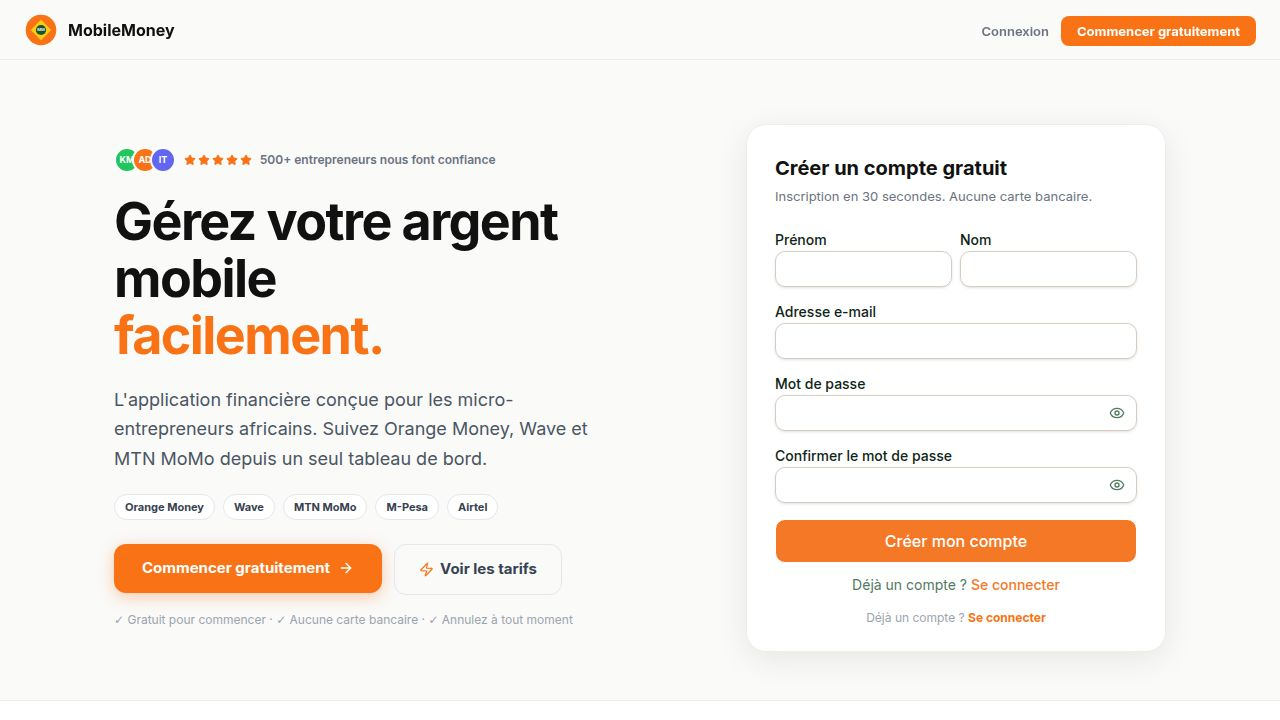
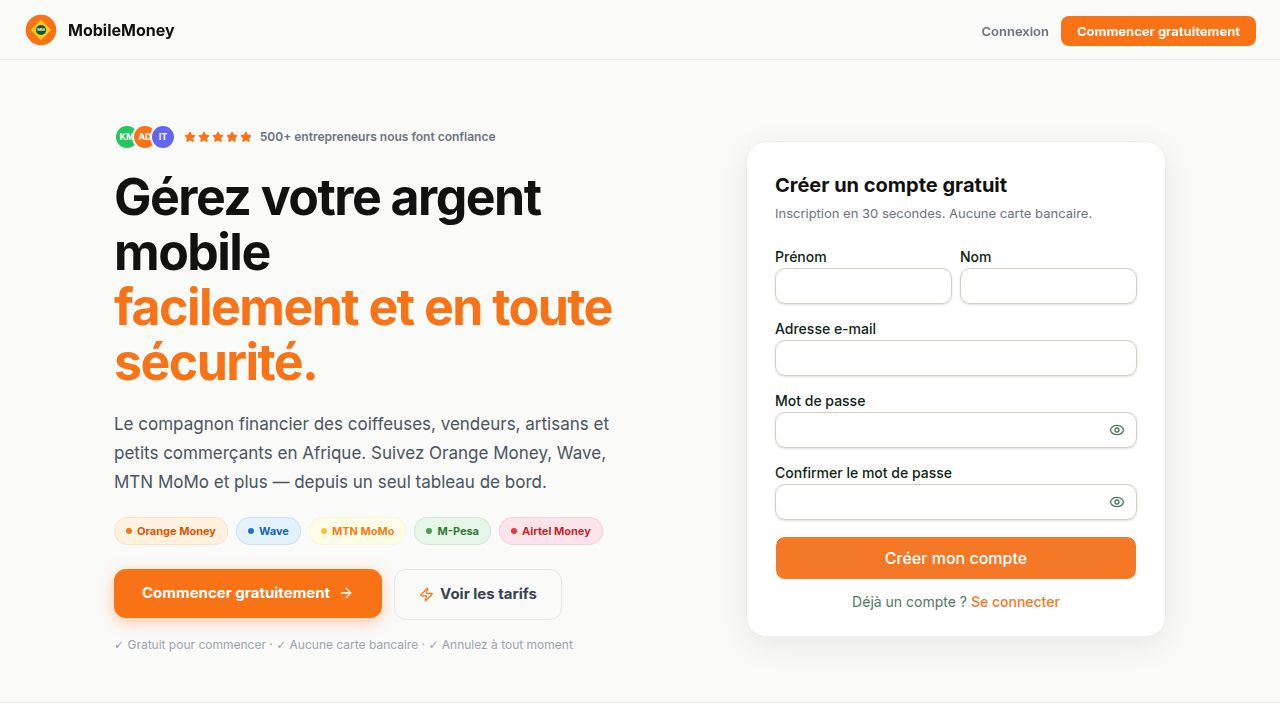
Improve feature cards and testimonials with new details
Update feature cards with benefit-focused titles and badges. Enhance testimonials with verified badges, cities, and emoji avatars.

Replit-Commit-Author: Agent
Replit-Commit-Session-Id: 96ac455e-ac4c-40b2-8513-c5170ef80bc2
Replit-Commit-Checkpoint-Type: full_checkpoint
Replit-Commit-Event-Id: 6f64c723-0567-4fef-acf0-5516a708f06d
Replit-Commit-Screenshot-Url: https://storage.googleapis.com/screenshot-production-us-central1/f86f2551-f080-4121-be3b-28f8cac57e85/96ac455e-ac4c-40b2-8513-c5170ef80bc2/KLUyV8z
Replit-Helium-Checkpoint-Created: true

diff --git a/artifacts/money-manager/src/pages/home.tsx b/artifacts/money-manager/src/pages/home.tsx
@@ -35,24 +35,27 @@ export default function Home() {
   const features = [
     {
       icon: Wallet,
-      title: fr ? "Tous vos wallets réunis" : "All wallets in one place",
+      title: fr ? "Tous vos wallets en un seul endroit" : "All your wallets in one place",
       description: fr
-        ? "Orange Money, Wave, MTN MoMo, Airtel, M-Pesa, espèces — gérez tout depuis un seul tableau de bord."
-        : "Orange Money, Wave, MTN MoMo, Airtel, M-Pesa, cash — manage all from one dashboard.",
+        ? "Orange Money, Wave, MTN MoMo, M-Pesa, Airtel, espèces — fini les cahiers et les calculs. Tout est centralisé, clair et à jour."
+        : "Orange Money, Wave, MTN MoMo, M-Pesa, Airtel, cash — no more notebooks. Everything centralized, clear and up to date.",
+      badge: fr ? "5 wallets supportés" : "5 wallets supported",
     },
     {
       icon: TrendingUp,
-      title: fr ? "Rapports clairs et exportables" : "Clear, exportable reports",
+      title: fr ? "Sachez exactement combien vous gagnez" : "Know exactly how much you earn",
       description: fr
-        ? "Visualisez vos revenus, dépenses et bénéfices mois par mois. Exportez en PDF pour votre comptable."
-        : "Visualize your income, expenses and profit month by month. Export PDF for your accountant.",
+        ? "Tableaux de bord clairs, rapports mensuels et exports PDF. Montrez vos chiffres à votre comptable en un clic."
+        : "Clear dashboards, monthly reports and PDF exports. Show your numbers to your accountant in one click.",
+      badge: fr ? "Export PDF inclus" : "PDF export included",
     },
     {
       icon: ShieldCheck,
-      title: fr ? "Données sécurisées & privées" : "Secure & private data",
+      title: fr ? "Vos finances protégées et privées" : "Your finances protected and private",
       description: fr
-        ? "Chiffrement de bout en bout. Vos données financières ne sont jamais partagées ou vendues."
-        : "End-to-end encryption. Your financial data is never shared or sold.",
+        ? "Chiffrement de bout en bout. Vos données financières ne sont jamais partagées, jamais vendues. Vous restez maître de vos données."
+        : "End-to-end encryption. Your financial data is never shared or sold. You stay in control of your data.",
+      badge: fr ? "Données chiffrées" : "Encrypted data",
     },
   ];
 
@@ -83,32 +86,38 @@ export default function Home() {
   const testimonials = [
     {
       name: "Kofi Mensah",
-      role: fr ? "Vendeur de téléphones, Abidjan" : "Phone vendor, Abidjan",
+      role: fr ? "Vendeur de téléphones" : "Phone vendor",
+      city: "Abidjan, Côte d'Ivoire",
       avatar: "KM",
       color: "#22c55e",
+      emoji: "📱",
       quote: fr
-        ? "Je suivais mes finances dans un carnet. Avec MobileMoney Manager, je vois tout en un coup d'œil. Mes revenus Wave et Orange Money sont enfin organisés."
-        : "I tracked finances in a notebook. With MobileMoney Manager, I see everything at a glance. My Wave and Orange Money income is finally organized.",
+        ? "Je suivais mes finances dans un carnet. Maintenant je vois mes revenus Wave et Orange Money en temps réel. Mes bénéfices ont augmenté de 20 % en 3 mois."
+        : "I tracked finances in a notebook. Now I see my Wave and Orange Money income in real time. My profit grew 20% in 3 months.",
       stars: 5,
     },
     {
       name: "Aminata Diallo",
-      role: fr ? "Commerçante textile, Dakar" : "Textile merchant, Dakar",
+      role: fr ? "Commerçante textile" : "Textile merchant",
+      city: "Dakar, Sénégal",
       avatar: "AD",
       color: "#f97316",
+      emoji: "👗",
       quote: fr
-        ? "J'ai découvert que je dépensais 30 % de plus que je ne pensais. L'appli m'a aidée à réduire mes coûts et augmenter mes bénéfices en deux mois."
-        : "I discovered I was spending 30% more than I thought. The app helped me cut costs and increase profit in two months.",
+        ? "J'ai découvert que je dépensais 30 % de plus que je ne pensais. En deux mois, j'ai réduit mes coûts et augmenté mes bénéfices. Cette appli m'a changé la vie."
+        : "I discovered I was spending 30% more than I thought. In two months I cut costs and grew profit. This app changed my life.",
       stars: 5,
     },
     {
       name: "Ibrahim Touré",
-      role: fr ? "Entrepreneur, Douala" : "Entrepreneur, Douala",
+      role: fr ? "Artisan électricien" : "Electrician",
+      city: "Yaoundé, Cameroun",
       avatar: "IT",
       color: "#6366f1",
+      emoji: "⚡",
       quote: fr
-        ? "Les rapports PDF sont parfaits pour ma comptabilité. Mon comptable adore recevoir les exports bien organisés chaque mois."
-        : "The PDF reports are perfect for my accounting. My accountant loves receiving the well-organized exports every month.",
+        ? "Les rapports PDF sont parfaits pour mes clients et mon comptable. Tout est organisé, professionnel. Je recommande à tous les artisans."
+        : "The PDF reports are perfect for my clients and accountant. Everything organized and professional. I recommend it to all artisans.",
       stars: 5,
     },
   ];
@@ -178,29 +187,39 @@ export default function Home() {
             </div>
 
             <h1 style={{
-              fontSize: "clamp(32px, 5vw, 52px)", fontWeight: 900,
+              fontSize: "clamp(30px, 5vw, 50px)", fontWeight: 900,
               color: "#111", lineHeight: 1.1, letterSpacing: "-0.03em", margin: 0,
             }}>
               {fr
-                ? <>Gérez votre argent mobile<br /><span style={{ color: ORANGE }}>facilement.</span></>
-                : <>Manage your mobile money<br /><span style={{ color: ORANGE }}>effortlessly.</span></>
+                ? <>Gérez votre argent mobile<br /><span style={{ color: ORANGE }}>facilement et en toute sécurité.</span></>
+                : <>Manage your mobile money<br /><span style={{ color: ORANGE }}>easily and securely.</span></>
               }
             </h1>
 
-            <p style={{ fontSize: 18, color: "#4b5563", lineHeight: 1.65, margin: 0, maxWidth: 480 }}>
+            <p style={{ fontSize: 17, color: "#4b5563", lineHeight: 1.7, margin: 0, maxWidth: 500 }}>
               {fr
-                ? "L'application financière conçue pour les micro-entrepreneurs africains. Suivez Orange Money, Wave et MTN MoMo depuis un seul tableau de bord."
-                : "The financial app built for African micro-entrepreneurs. Track Orange Money, Wave and MTN MoMo from a single dashboard."
+                ? "Le compagnon financier des coiffeuses, vendeurs, artisans et petits commerçants en Afrique. Suivez Orange Money, Wave, MTN MoMo et plus — depuis un seul tableau de bord."
+                : "The financial companion for hairdressers, vendors, artisans and small traders in Africa. Track Orange Money, Wave, MTN MoMo and more — from one dashboard."
               }
             </p>
 
             {/* Mobile-money logos / payment badges */}
             <div style={{ display: "flex", flexWrap: "wrap", gap: 8 }}>
-              {["Orange Money", "Wave", "MTN MoMo", "M-Pesa", "Airtel"].map(p => (
-                <span key={p} style={{
-                  fontSize: 11, fontWeight: 700, padding: "4px 10px", borderRadius: 999,
-                  background: "#fff", border: "1.5px solid #e5e7eb", color: "#374151",
-                }}>{p}</span>
+              {[
+                { label: "Orange Money", bg: "#fff3e0", color: "#e65100", dot: "#f97316" },
+                { label: "Wave",         bg: "#e3f2fd", color: "#1565c0", dot: "#1976d2" },
+                { label: "MTN MoMo",     bg: "#fffde7", color: "#f57f17", dot: "#fbc02d" },
+                { label: "M-Pesa",       bg: "#e8f5e9", color: "#2e7d32", dot: "#43a047" },
+                { label: "Airtel Money", bg: "#fce4ec", color: "#c62828", dot: "#e53935" },
+              ].map(({ label, bg, color, dot }) => (
+                <span key={label} style={{
+                  display: "inline-flex", alignItems: "center", gap: 5,
+                  fontSize: 11, fontWeight: 700, padding: "5px 11px", borderRadius: 999,
+                  background: bg, color, border: `1.5px solid ${dot}22`,
+                }}>
+                  <span style={{ width: 6, height: 6, borderRadius: "50%", background: dot, flexShrink: 0, display: "inline-block" }} />
+                  {label}
+                </span>
               ))}
             </div>
 
@@ -267,24 +286,59 @@ export default function Home() {
             </p>
           </div>
           <div style={{ display: "grid", gridTemplateColumns: "repeat(auto-fit, minmax(240px, 1fr))", gap: 20 }}>
-            {features.map(({ icon: Icon, title, description }) => (
+            {features.map(({ icon: Icon, title, description, badge }) => (
               <div key={title} style={{
-                background: "#fafaf9", border: "1px solid #f0ede9", borderRadius: 18,
+                background: "#fafaf9", border: "1.5px solid #f0ede9", borderRadius: 20,
                 padding: 24, display: "flex", flexDirection: "column", gap: 14,
+                boxShadow: "0 2px 8px rgba(0,0,0,0.04)",
               }}>
-                <div style={{
-                  width: 46, height: 46, borderRadius: 12,
-                  background: ORANGE + "18", display: "flex", alignItems: "center", justifyContent: "center",
-                }}>
-                  <Icon style={{ width: 22, height: 22, color: ORANGE }} />
+                <div style={{ display: "flex", alignItems: "flex-start", justifyContent: "space-between" }}>
+                  <div style={{
+                    width: 50, height: 50, borderRadius: 14,
+                    background: "linear-gradient(135deg," + ORANGE + "20," + ORANGE + "08)",
+                    border: "1.5px solid " + ORANGE + "25",
+                    display: "flex", alignItems: "center", justifyContent: "center",
+                  }}>
+                    <Icon style={{ width: 24, height: 24, color: ORANGE }} />
+                  </div>
+                  {badge && (
+                    <span style={{
+                      fontSize: 10, fontWeight: 700, padding: "3px 8px", borderRadius: 999,
+                      background: ORANGE + "14", color: ORANGE, border: "1px solid " + ORANGE + "30",
+                    }}>{badge}</span>
+                  )}
                 </div>
                 <div>
-                  <div style={{ fontWeight: 700, fontSize: 15, color: "#111", marginBottom: 6 }}>{title}</div>
-                  <p style={{ fontSize: 13, color: "#6b7280", lineHeight: 1.6, margin: 0 }}>{description}</p>
+                  <div style={{ fontWeight: 800, fontSize: 15, color: "#111", marginBottom: 8, lineHeight: 1.3 }}>{title}</div>
+                  <p style={{ fontSize: 13, color: "#6b7280", lineHeight: 1.65, margin: 0 }}>{description}</p>
                 </div>
               </div>
             ))}
           </div>
+        </div>
+      </section>
+
+      {/* ─── TRUST BAR ─── */}
+      <section style={{ background: "#111", padding: "20px 24px" }}>
+        <div style={{
+          maxWidth: 900, margin: "0 auto",
+          display: "flex", alignItems: "center", justifyContent: "center",
+          flexWrap: "wrap", gap: "12px 32px",
+        }}>
+          {[
+            { icon: "🔒", text: fr ? "Données chiffrées et sécurisées" : "Encrypted & secure data" },
+            { icon: "👥", text: fr ? "+500 entrepreneurs actifs" : "+500 active entrepreneurs" },
+            { icon: "💳", text: fr ? "Paiement protégé par Stripe" : "Payment secured by Stripe" },
+            { icon: "🌍", text: fr ? "Afrique de l'Ouest & Centrale" : "West & Central Africa" },
+          ].map(({ icon, text }) => (
+            <div key={text} style={{
+              display: "flex", alignItems: "center", gap: 7,
+              fontSize: 13, fontWeight: 600, color: "#d1d5db",
+            }}>
+              <span style={{ fontSize: 15 }}>{icon}</span>
+              {text}
+            </div>
+          ))}
         </div>
       </section>
 
@@ -301,25 +355,48 @@ export default function Home() {
         <div style={{ display: "grid", gridTemplateColumns: "repeat(auto-fit, minmax(260px, 1fr))", gap: 20 }}>
           {testimonials.map(t => (
             <div key={t.name} style={{
-              background: "#fff", border: "1px solid #f0ede9", borderRadius: 18,
+              background: "#fff", border: "1.5px solid #f0ede9", borderRadius: 20,
               padding: 24, display: "flex", flexDirection: "column", gap: 14,
-              boxShadow: "0 1px 4px rgba(0,0,0,0.05)",
+              boxShadow: "0 2px 12px rgba(0,0,0,0.06)",
             }}>
-              <div style={{ display: "flex", gap: 2 }}>
-                {[1,2,3,4,5].map(s => <Star key={s} style={{ width: 14, height: 14, color: "#f97316", fill: "#f97316" }} />)}
+              {/* Stars + verified */}
+              <div style={{ display: "flex", alignItems: "center", justifyContent: "space-between" }}>
+                <div style={{ display: "flex", gap: 2 }}>
+                  {[1,2,3,4,5].map(s => <Star key={s} style={{ width: 14, height: 14, color: "#f97316", fill: "#f97316" }} />)}
+                </div>
+                <span style={{
+                  display: "inline-flex", alignItems: "center", gap: 4,
+                  fontSize: 10, fontWeight: 700, color: "#16a34a",
+                  background: "#f0fdf4", border: "1px solid #bbf7d0",
+                  borderRadius: 999, padding: "2px 8px",
+                }}>
+                  <CheckCircle style={{ width: 9, height: 9 }} />
+                  {fr ? "Vérifié" : "Verified"}
+                </span>
               </div>
-              <p style={{ fontSize: 14, color: "#374151", lineHeight: 1.65, margin: 0, fontStyle: "italic" }}>
+
+              {/* Quote */}
+              <p style={{
+                fontSize: 14, color: "#374151", lineHeight: 1.7, margin: 0,
+                borderLeft: `3px solid ${t.color}`, paddingLeft: 12,
+              }}>
                 "{t.quote}"
               </p>
-              <div style={{ display: "flex", alignItems: "center", gap: 10, marginTop: 4 }}>
+
+              {/* Author */}
+              <div style={{ display: "flex", alignItems: "center", gap: 10, marginTop: 2 }}>
                 <div style={{
-                  width: 38, height: 38, borderRadius: "50%",
-                  background: t.color, color: "#fff", fontSize: 12, fontWeight: 800,
+                  width: 42, height: 42, borderRadius: "50%",
+                  background: t.color, color: "#fff", fontSize: 13, fontWeight: 800,
                   display: "flex", alignItems: "center", justifyContent: "center", flexShrink: 0,
-                }}>{t.avatar}</div>
+                  boxShadow: `0 2px 8px ${t.color}50`,
+                }}>
+                  {t.emoji}
+                </div>
                 <div>
-                  <div style={{ fontWeight: 700, fontSize: 13, color: "#111" }}>{t.name}</div>
-                  <div style={{ fontSize: 12, color: "#9ca3af" }}>{t.role}</div>
+                  <div style={{ fontWeight: 800, fontSize: 13, color: "#111" }}>{t.name}</div>
+                  <div style={{ fontSize: 11, color: "#9ca3af" }}>{t.role}</div>
+                  <div style={{ fontSize: 11, color: ORANGE, fontWeight: 600 }}>📍 {t.city}</div>
                 </div>
               </div>
             </div>